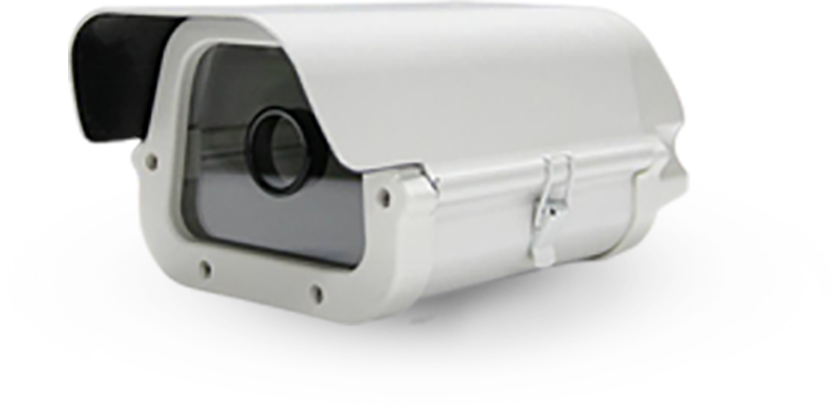
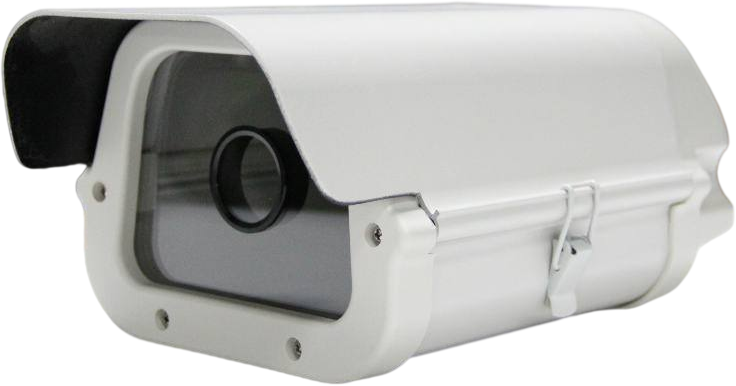
更改智慧安防

diff --git a/src/views/Security.vue b/src/views/Security.vue
@@ -363,7 +363,8 @@ export default {
         top: 77px;
       }
       img {
-        width: 419px;
+        width: 370px;
+        object-fit: contain;
         height: 209px;
         position: absolute;
         left: 50%;
